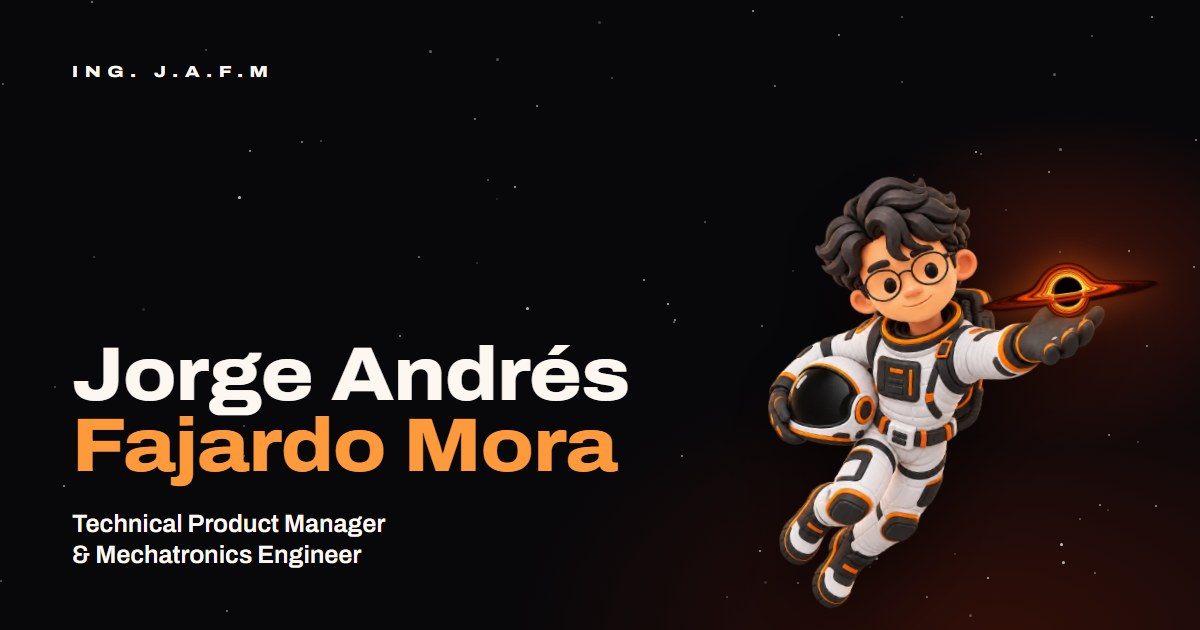
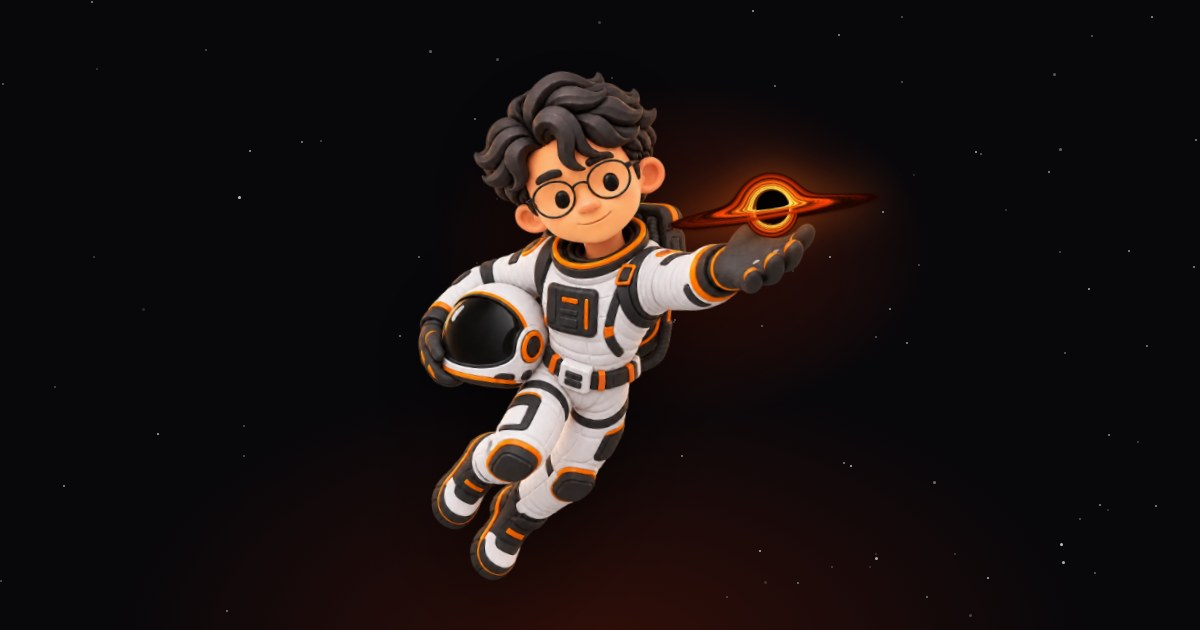
Miniatura del enlace solo con el astronauta y fuera la nota de Certificaciones
- og.jpg sin texto: el astronauta con el agujero negro en la mano, centrado
  por el cuerpo para que WhatsApp, que recorta el centro en cuadrado, lo
  muestre entero. La URL lleva ?v=2 para que no reusen la miniatura vieja.
- Certificaciones: fuera "Formacion y credenciales verificables".

diff --git a/index.html b/index.html
@@ -22,12 +22,12 @@
          entera y con /singularity/: WhatsApp, LinkedIn y compañía no resuelven
          rutas relativas, y Vite no reescribe el `base` dentro de un meta. -->
     <meta property="og:url" content="https://jorgefajardom-coder.github.io/singularity/" />
-    <meta property="og:image" content="https://jorgefajardom-coder.github.io/singularity/og.jpg" />
+    <meta property="og:image" content="https://jorgefajardom-coder.github.io/singularity/og.jpg?v=2" />
     <meta property="og:image:width" content="1200" />
     <meta property="og:image:height" content="630" />
-    <meta property="og:image:alt" content="Jorge Andrés Fajardo Mora, Technical Product Manager & Mechatronics Engineer, con un astronauta que sostiene un agujero negro en la mano" />
+    <meta property="og:image:alt" content="Astronauta que sostiene un agujero negro en la mano" />
     <meta name="twitter:card" content="summary_large_image" />
-    <meta name="twitter:image" content="https://jorgefajardom-coder.github.io/singularity/og.jpg" />
+    <meta name="twitter:image" content="https://jorgefajardom-coder.github.io/singularity/og.jpg?v=2" />
 
     <link rel="preconnect" href="https://fonts.googleapis.com" />
     <link rel="preconnect" href="https://fonts.gstatic.com" crossorigin />

diff --git a/src/components/Certifications.jsx b/src/components/Certifications.jsx
@@ -6,7 +6,6 @@ const PropsView = lazy(() =>
 );
 import { useLang } from "../lib/i18n";
 import { GhostHeading } from "./ui";
-import SplitText from "./SplitText";
 
 /**
  * Certificaciones y formación.
@@ -27,9 +26,6 @@ export default function Certifications() {
 
       <div className="shell" style={{ textAlign: "center" }}>
         <GhostHeading className="display display--md">{tr(sections.certifications.heading)}</GhostHeading>
-        <SplitText className="certs__note" variant="blur">
-          {tr(sections.certifications.note)}
-        </SplitText>
       </div>
 
       <div className="shell">

diff --git a/src/data/content.js b/src/data/content.js
@@ -77,10 +77,6 @@ export const sections = {
   certifications: {
     id: "certifications",
     heading: t("Certificaciones", "Certifications"),
-    note: t(
-      "Formación y credenciales verificables.",
-      "Training and verifiable credentials."
-    ),
   },
   companies: {
     // Sin `heading`: la órbita de marcas se presenta sola, con la nota.

diff --git a/src/styles/global.css b/src/styles/global.css
@@ -3318,15 +3318,6 @@ body.is-anchored .about__float {
   z-index: 0;
 }
 
-.certs__note {
-  position: relative;
-  z-index: 4;
-  margin: 20px auto 0;
-  max-width: 44ch;
-  font-size: 15px;
-  color: var(--text-dim);
-}
-
 .certs__grid {
   position: relative;
   z-index: 4;
